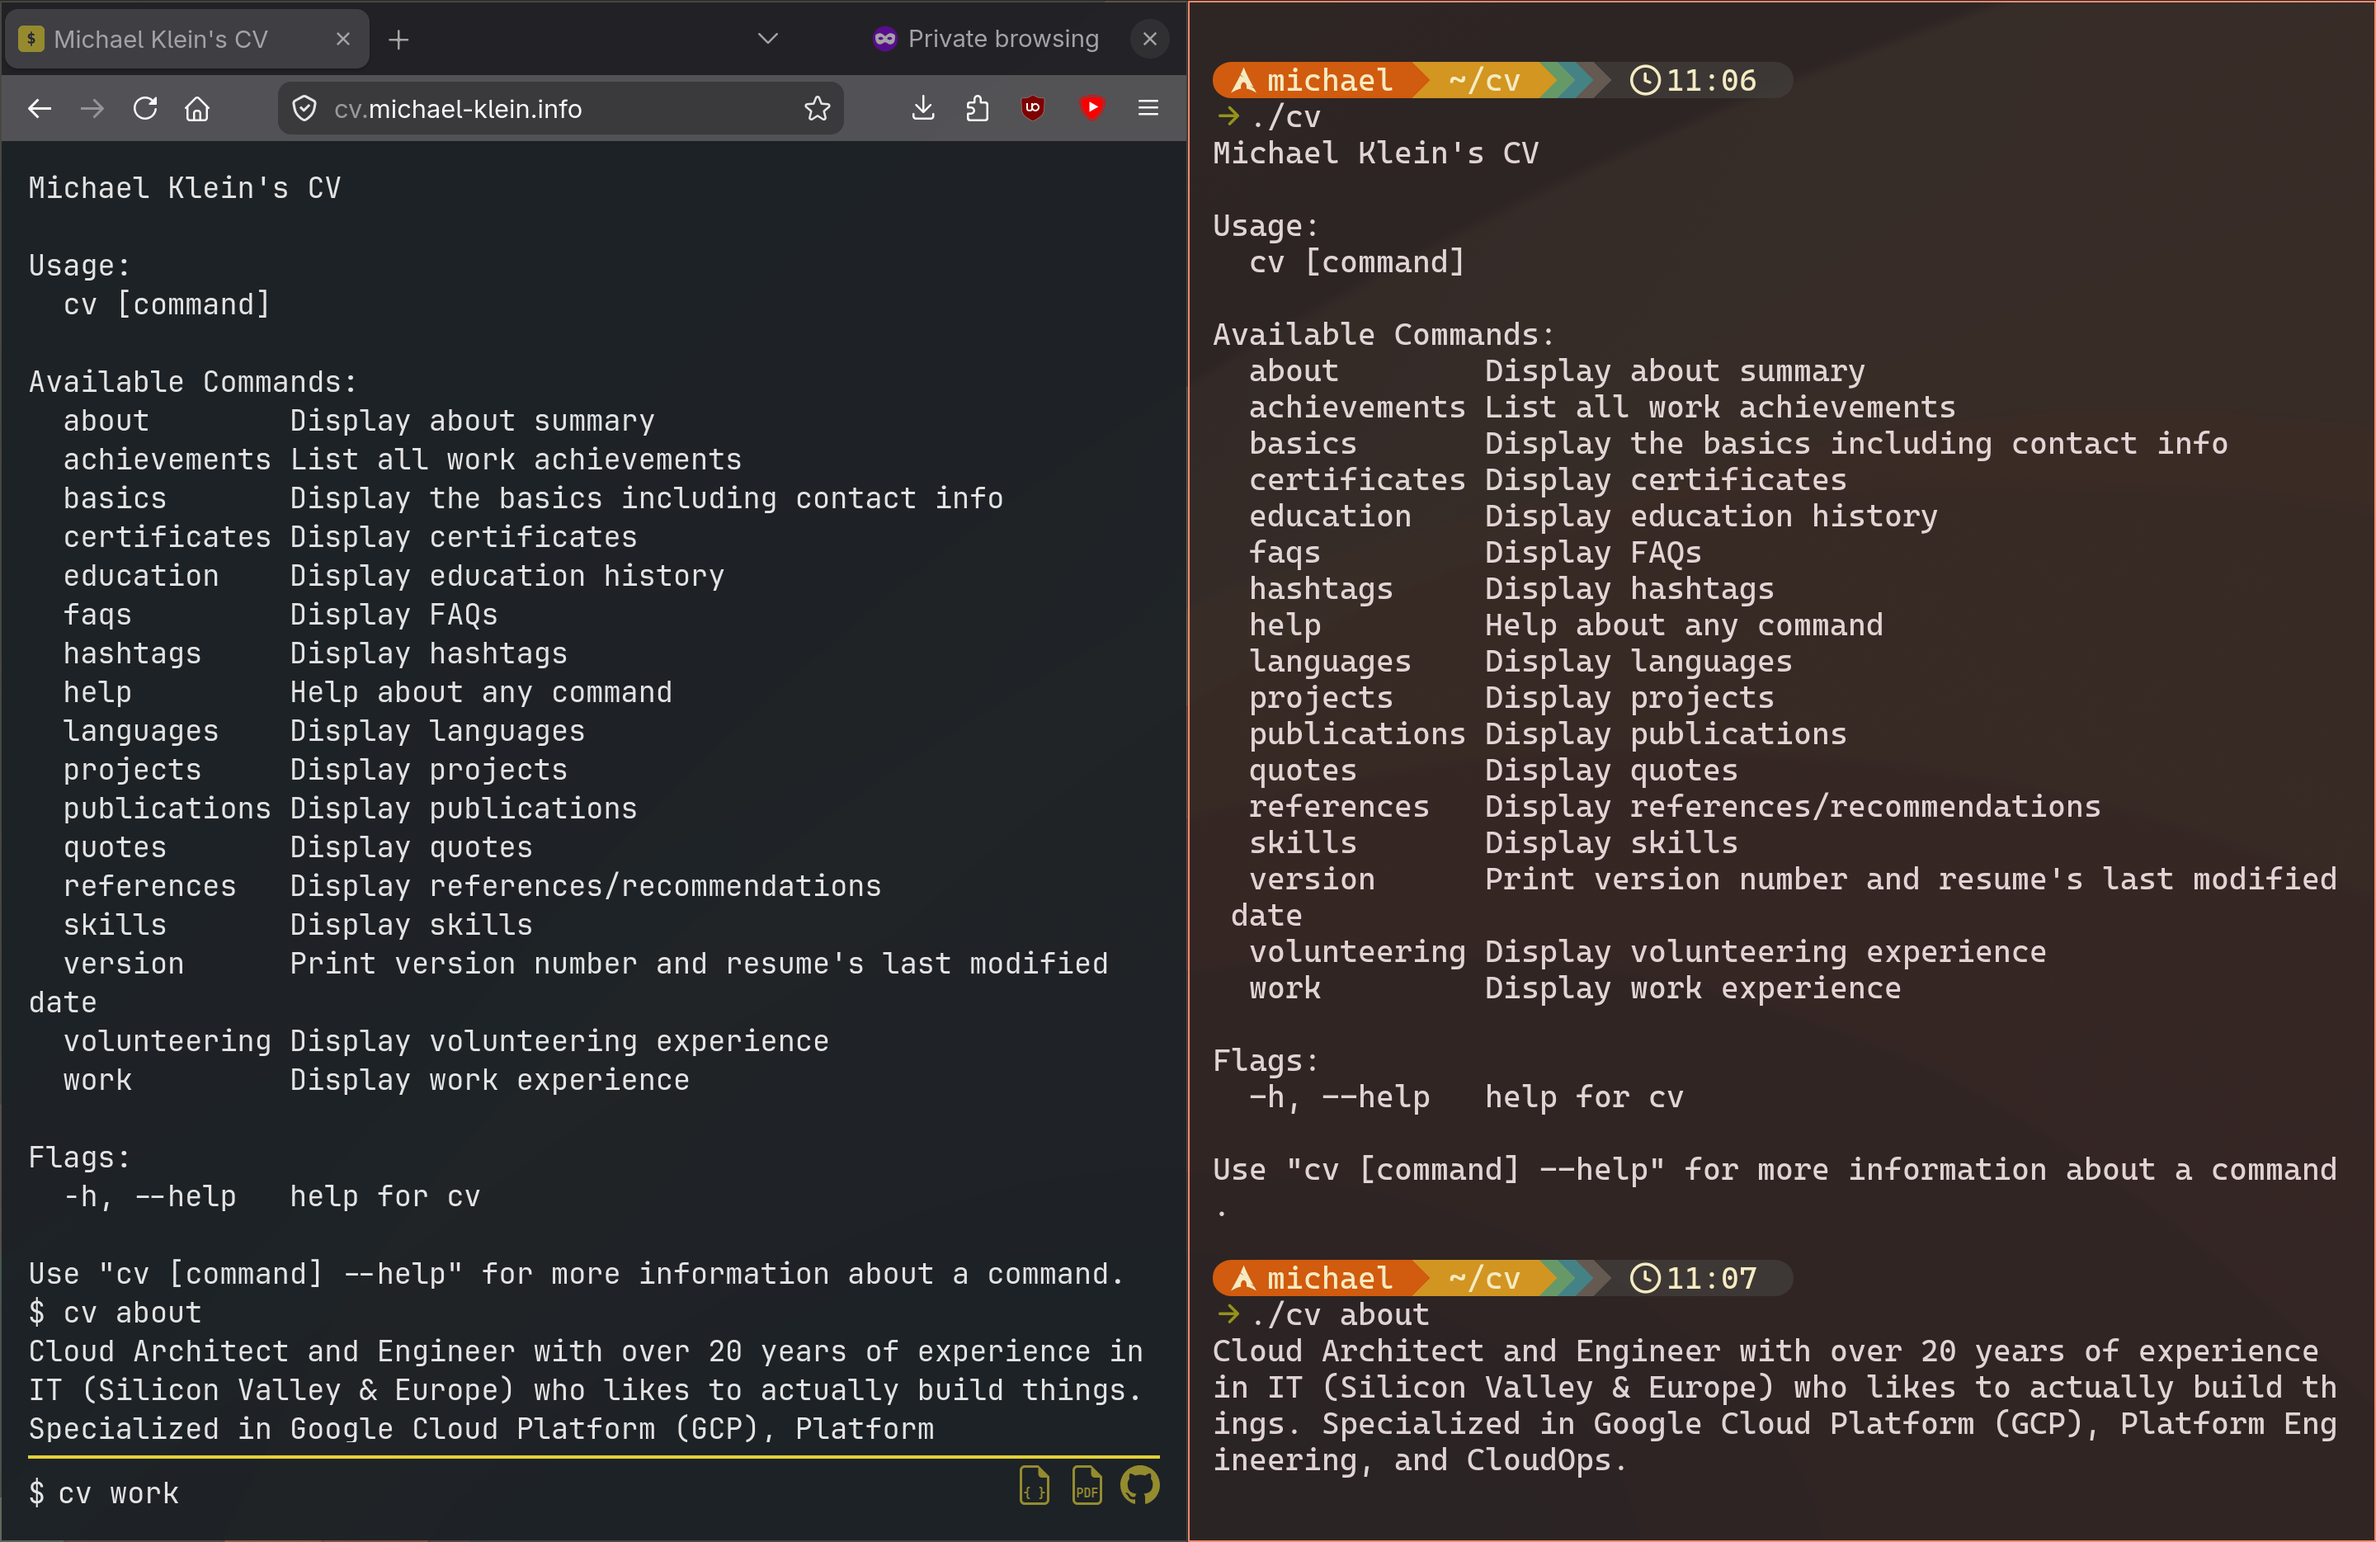
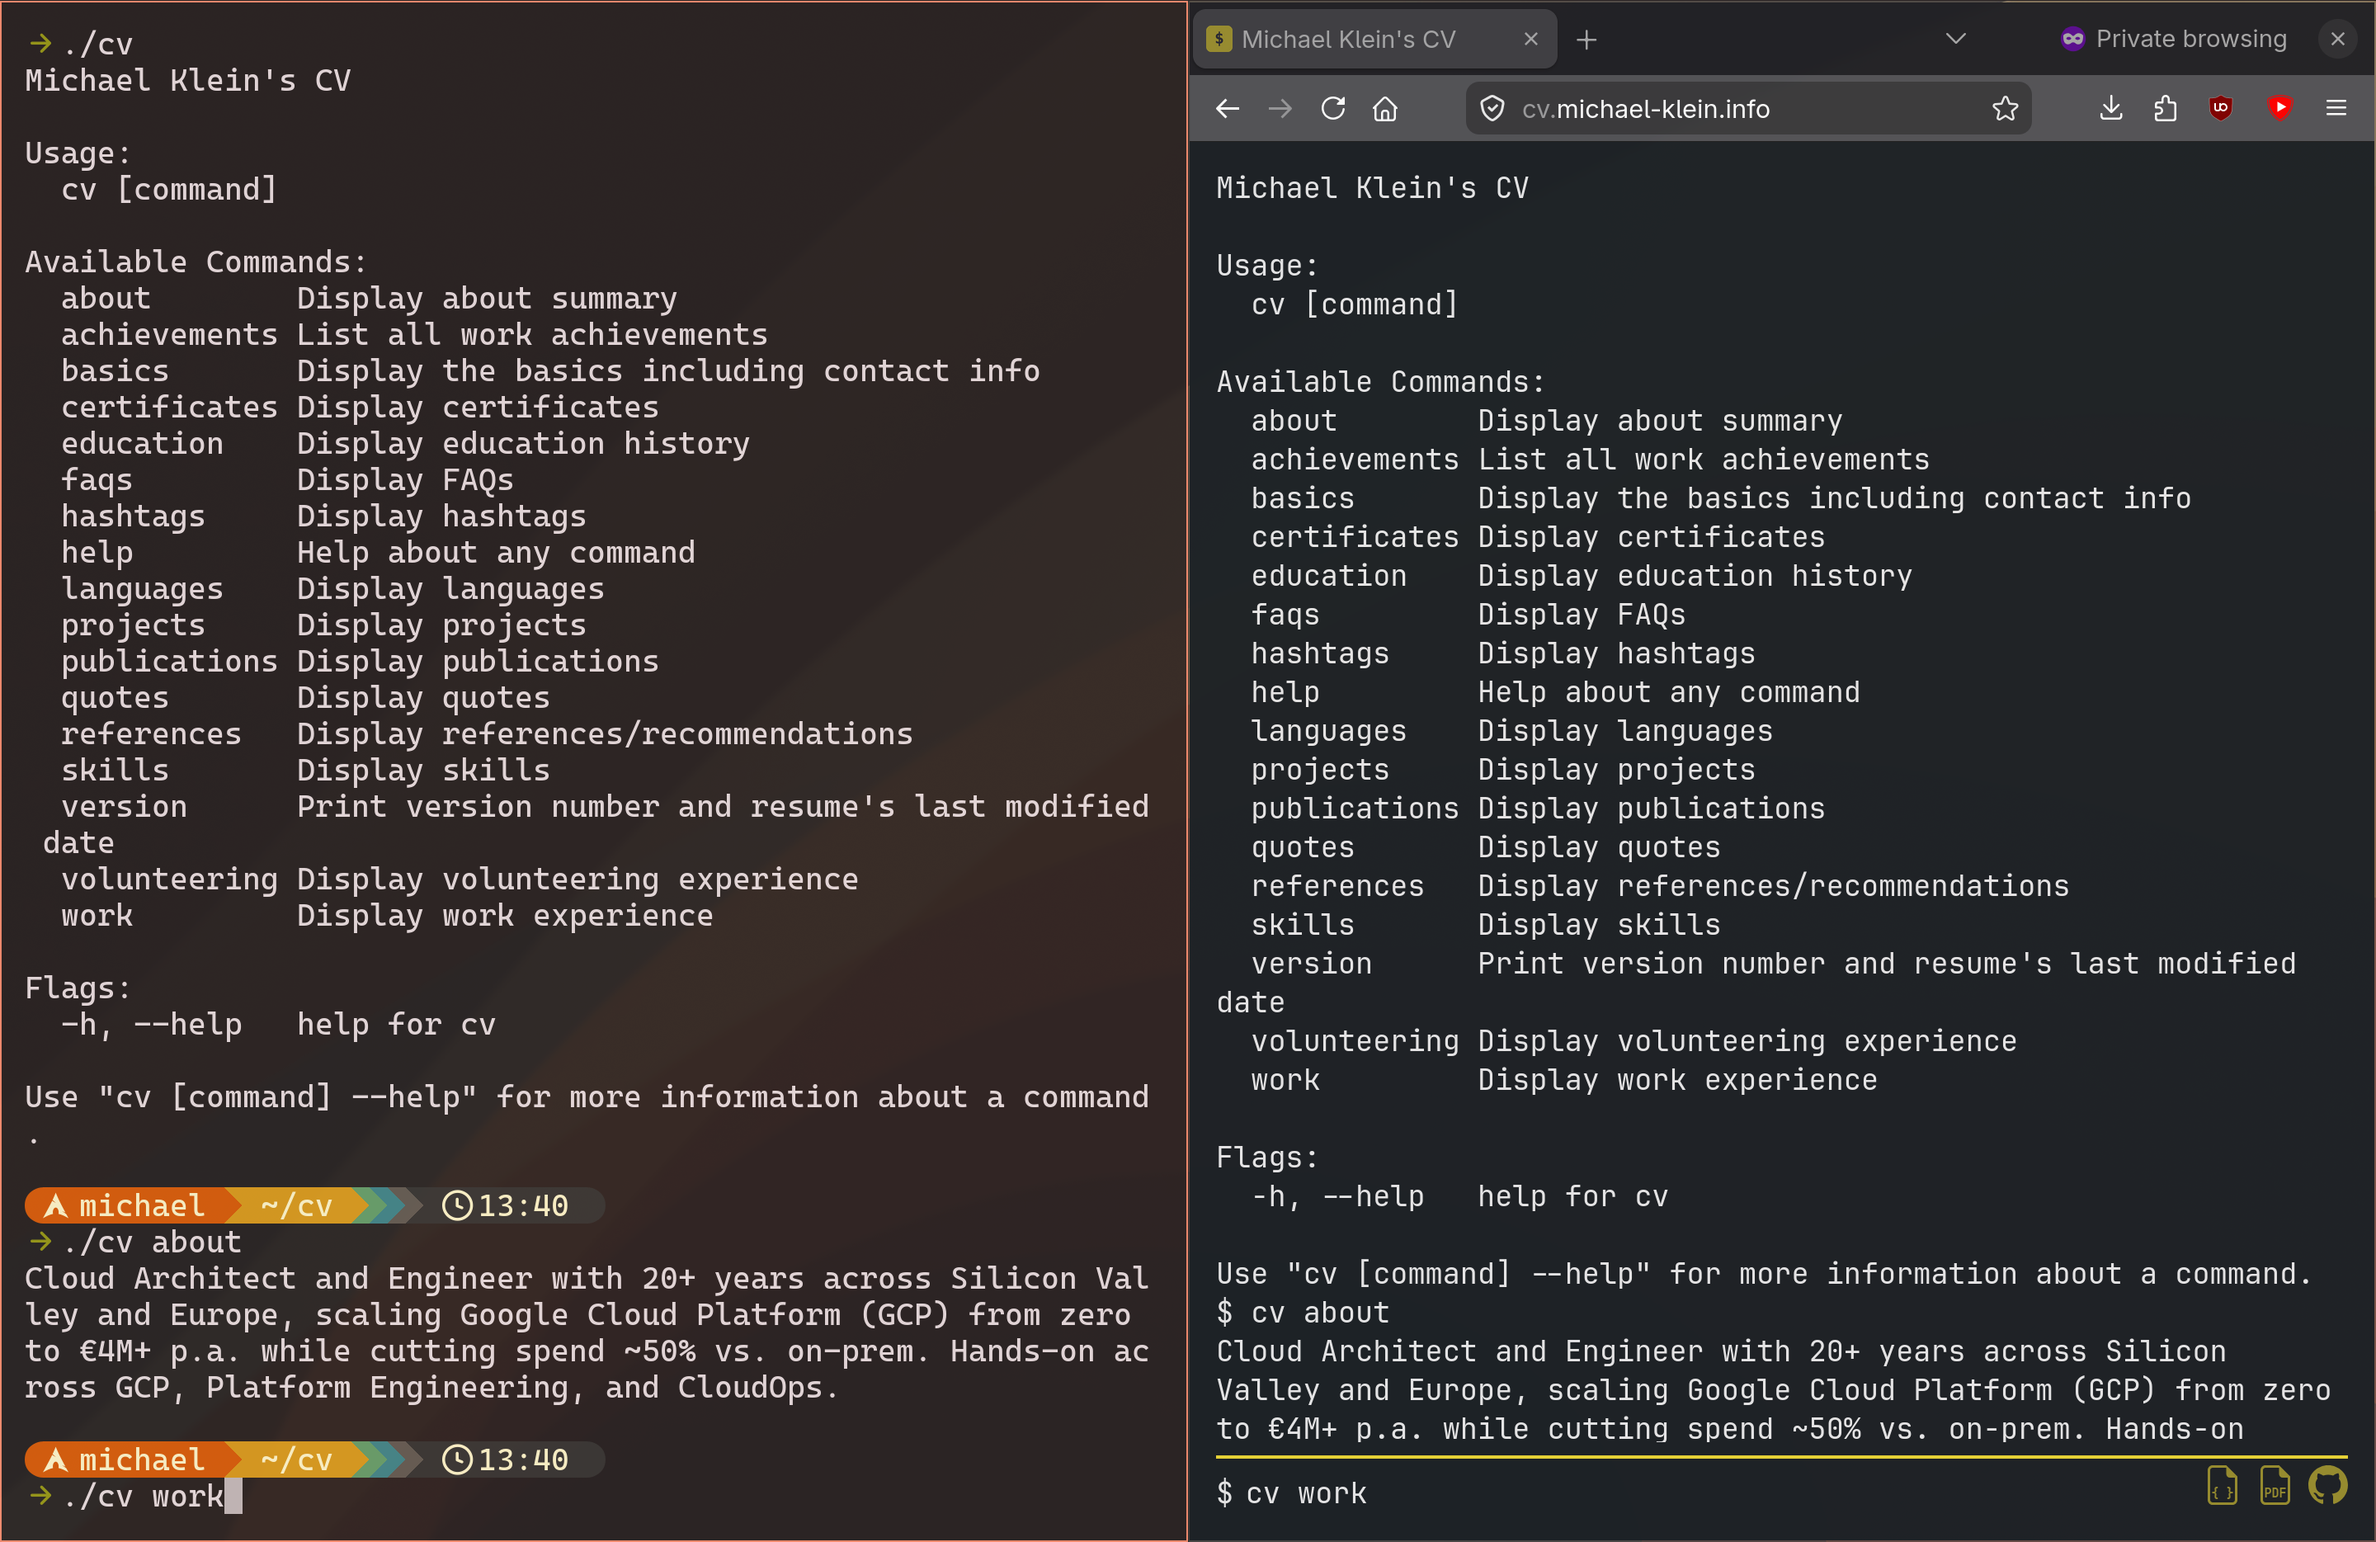
update screenshot

diff --git a/KANBAN.md b/KANBAN.md
@@ -2,6 +2,7 @@
 
 ## Backlog
 
+- [ ] animated pointer to PDF download?
 - [ ] support additional themes?
 - [ ] favicon.png could be the resume.json's basic.image (use app favicon as fallback)
 - [ ] check out https://github.com/igolaizola/webcli
@@ -11,6 +12,8 @@
 - [ ] entry screen to choose between static incl. download and WebCLI
 
 ## Doing
+
+- n/a
 
 ### Done
 

diff --git a/README.md b/README.md
@@ -9,7 +9,7 @@
 <p align="center">
 <img src="screenshot.png" alt="CV CLI and WebCLI" width="600"/>
 <br />
-<small>Left: WebCLI version<br/>Right: CLI flavor</small>
+<small>Left: CLI flavor<br />Right: WebCLI version</small>
 </p>
 
 <p align="center">
